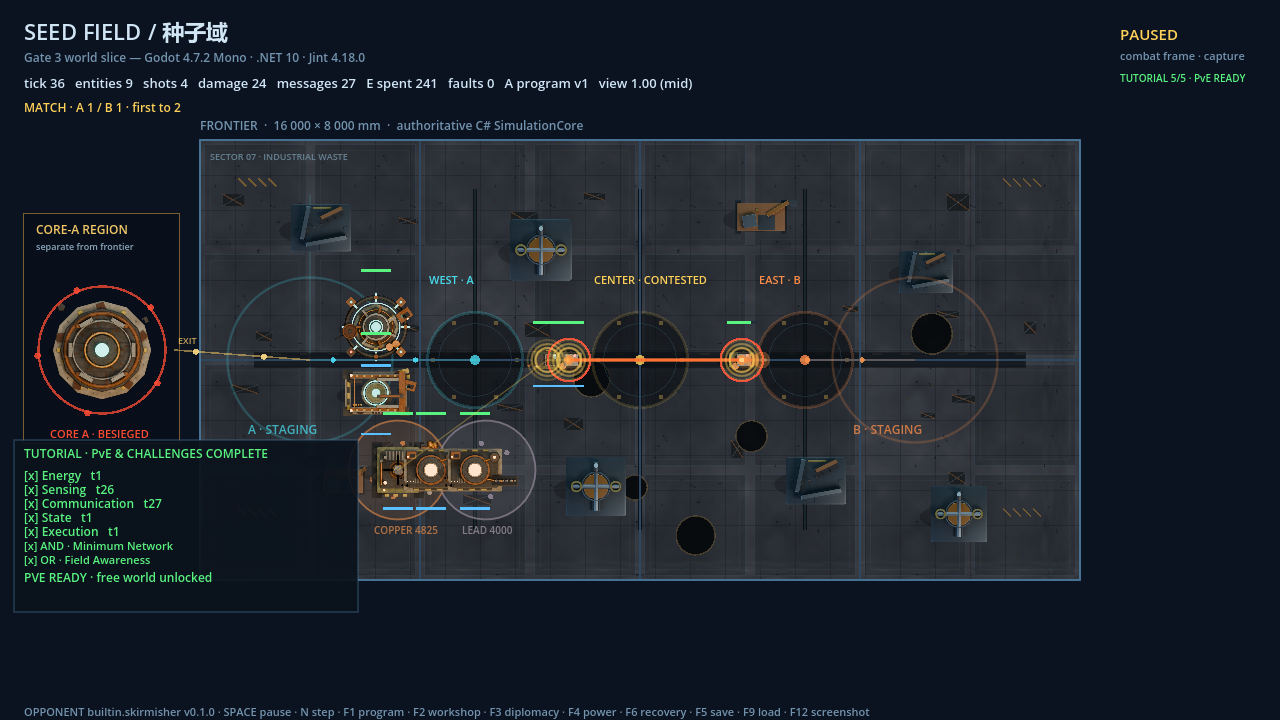
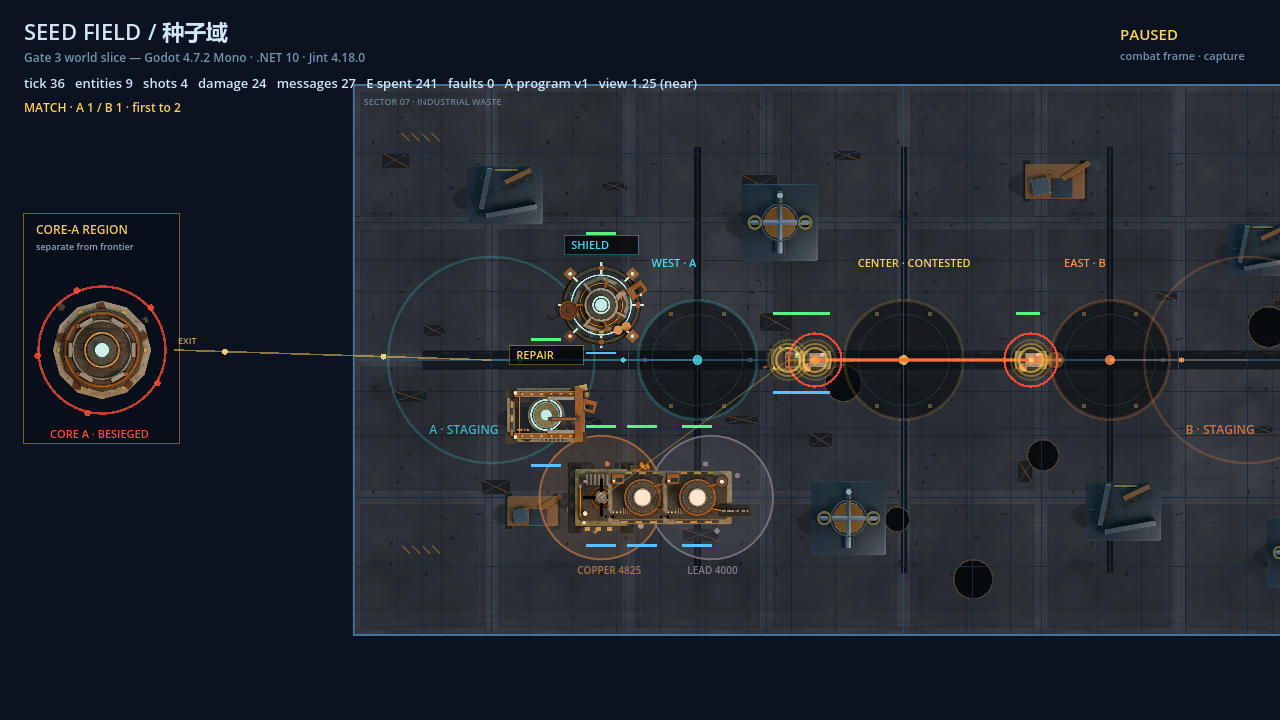
feat(game): SeedField 打磨 Main topdown 截图构图
Frame the capture at 1.25 zoom around the A support area, hide tutorial/control overlays, label the repair bay and shield generator, and separate the support buildings from the ore labels. Split capture option parsing into Main.CaptureUi.cs to keep Main.cs under the line limit.

Tests: dotnet test SeedField.slnx -> 526 passed.

diff --git a/game/SeedField.Game/Scripts/Main.CaptureUi.cs b/game/SeedField.Game/Scripts/Main.CaptureUi.cs
@@ -1,0 +1,82 @@
+using Godot;
+using SeedField.Simulation;
+
+namespace SeedField.Game;
+
+public partial class Main
+{
+    private bool _captureMainTopdown;
+
+    private void ParseCaptureOptions(string[] arguments)
+    {
+        _captureEditor = arguments.Contains("--capture-editor");
+        _captureWorkshop = arguments.Contains("--capture-workshop");
+        _captureDiplomacy = arguments.Contains("--capture-diplomacy");
+        _captureDiplomacyAi = arguments.Contains("--capture-diplomacy-ai");
+        _capturePower = arguments.Contains("--capture-power");
+        _captureRecovery = arguments.Contains("--capture-recovery");
+        _captureVictory = arguments.Contains("--capture-victory");
+        _captureVisual = arguments.Contains("--capture-visual");
+        _captureTactical = arguments.Contains("--capture-tactical");
+        _captureDebug = arguments.Contains("--capture-debug");
+        _captureOmniscient = arguments.Contains("--capture-omniscient");
+        _captureView = arguments.Contains("--capture-view");
+        _captureMainTopdown = arguments.Contains("--capture-main-topdown");
+        _tacticalVisible = _captureTactical;
+        _debugVisible = _captureDebug || _captureOmniscient;
+        _omniscientDebug |= _captureOmniscient;
+        _paused = _benchmarkMain || arguments.Contains("--capture") ||
+                  _captureEditor ||
+                  _captureWorkshop ||
+                  _captureDiplomacy ||
+                  _captureDiplomacyAi ||
+                  _capturePower ||
+                  _captureRecovery ||
+                  _captureVictory ||
+                  _captureVisual ||
+                  _captureTactical ||
+                  _captureDebug ||
+                  _captureOmniscient ||
+                  _captureView ||
+                  _captureMainTopdown;
+        _captureRequested = _paused;
+        _capturePath = _captureMainTopdown
+            ? "res://screenshots/main-topdown.png"
+            : _captureEditor
+                ? "res://screenshots/m0-program-editor.png"
+                : _captureWorkshop
+                    ? "res://screenshots/m0-workshop.png"
+                    : _captureDiplomacyAi
+                        ? "res://screenshots/m0-diplomacy-ai.png"
+                        : _captureDiplomacy
+                            ? "res://screenshots/m0-diplomacy.png"
+                            : _capturePower
+                                ? "res://screenshots/m0-power.png"
+                                : _captureRecovery
+                                    ? "res://screenshots/m0-recovery.png"
+                                    : _captureVictory
+                                        ? "res://screenshots/m0-victory.png"
+                                        : _captureVisual
+                                            ? "res://screenshots/art-main-combat.png"
+                                            : _captureTactical
+                                                ? "res://screenshots/art-main-tactical.png"
+                                                : _captureDebug
+                                                    ? "res://screenshots/art-main-debug.png"
+                                                    : _captureOmniscient
+                                                        ? "res://screenshots/art-main-omniscient.png"
+                                                        : _captureView
+                                                            ? _zoom < 0.9f
+                                                                ? "res://screenshots/art-main-far.png"
+                                                                : _zoom > 1.1f
+                                                                    ? "res://screenshots/art-main-near.png"
+                                                                    : "res://screenshots/art-main-mid.png"
+                                                            : "res://screenshots/m0-combat.png";
+        if (_captureMainTopdown)
+        {
+            _zoom = 1.25f;
+            var focus = new Vec2(3_000, 4_000);
+            _pan = new Vector2(560, 360) -
+                (BaseMapOrigin + new Vector2(focus.X * MapScale, focus.Y * MapScale));
+        }
+    }
+}

diff --git a/game/SeedField.Game/Scripts/Main.cs b/game/SeedField.Game/Scripts/Main.cs
@@ -86,7 +86,6 @@ public partial class Main : Node2D
     private bool _captureDebug;
     private bool _captureOmniscient;
     private bool _captureView;
-    private bool _captureMainTopdown;
     private int _frame;
     private int _faultCount;
     private string _status = "booting";
@@ -223,68 +222,8 @@ public partial class Main : Node2D
             return;
         }
 
-        _captureEditor = arguments.Contains("--capture-editor");
-        _captureWorkshop = arguments.Contains("--capture-workshop");
-        _captureDiplomacy = arguments.Contains("--capture-diplomacy");
-        _captureDiplomacyAi = arguments.Contains("--capture-diplomacy-ai");
-        _capturePower = arguments.Contains("--capture-power");
-        _captureRecovery = arguments.Contains("--capture-recovery");
-        _captureVictory = arguments.Contains("--capture-victory");
-        _captureVisual = arguments.Contains("--capture-visual");
-        _captureTactical = arguments.Contains("--capture-tactical");
-        _captureDebug = arguments.Contains("--capture-debug");
-        _captureOmniscient = arguments.Contains("--capture-omniscient");
-        _captureView = arguments.Contains("--capture-view");
-        _captureMainTopdown = arguments.Contains("--capture-main-topdown");
-        _tacticalVisible = _captureTactical;
-        _debugVisible = _captureDebug || _captureOmniscient;
-        _omniscientDebug |= _captureOmniscient;
-        _paused = _benchmarkMain || arguments.Contains("--capture") ||
-                  _captureEditor ||
-                  _captureWorkshop ||
-                  _captureDiplomacy ||
-                  _captureDiplomacyAi ||
-                  _capturePower ||
-                  _captureRecovery ||
-                  _captureVictory ||
-                  _captureVisual ||
-                  _captureTactical ||
-                  _captureDebug ||
-                  _captureOmniscient ||
-                  _captureView ||
-                  _captureMainTopdown;
-        _captureRequested = _paused;
-        _capturePath = _captureMainTopdown
-            ? "res://screenshots/main-topdown.png"
-            : _captureEditor
-            ? "res://screenshots/m0-program-editor.png"
-            : _captureWorkshop
-                ? "res://screenshots/m0-workshop.png"
-                : _captureDiplomacyAi
-                    ? "res://screenshots/m0-diplomacy-ai.png"
-                    : _captureDiplomacy
-                        ? "res://screenshots/m0-diplomacy.png"
-                        : _capturePower
-                            ? "res://screenshots/m0-power.png"
-                            : _captureRecovery
-                                ? "res://screenshots/m0-recovery.png"
-                                : _captureVictory
-                                    ? "res://screenshots/m0-victory.png"
-                                    : _captureVisual
-                                        ? "res://screenshots/art-main-combat.png"
-                                        : _captureTactical
-                                            ? "res://screenshots/art-main-tactical.png"
-                                            : _captureDebug
-                                                ? "res://screenshots/art-main-debug.png"
-                                                : _captureOmniscient
-                                                    ? "res://screenshots/art-main-omniscient.png"
-                                                    : _captureView
-                                                        ? _zoom < 0.9f
-                                                            ? "res://screenshots/art-main-far.png"
-                                                            : _zoom > 1.1f
-                                                                ? "res://screenshots/art-main-near.png"
-                                                                : "res://screenshots/art-main-mid.png"
-                                                        : "res://screenshots/m0-combat.png";
+        ParseCaptureOptions(arguments);
+
         UpdateFacing();
 
         if (_captureEditor)

diff --git a/game/SeedField.Game/Scripts/Main.WorldVisuals.cs b/game/SeedField.Game/Scripts/Main.WorldVisuals.cs
@@ -137,6 +137,42 @@ public partial class Main
         }
     }
 
+    private void DrawCaptureSupportLabels()
+    {
+        foreach (var entity in _visibleEntities)
+        {
+            var label = entity.BlueprintId switch
+            {
+                "repair_bay" => "REPAIR",
+                "shield_generator" => "SHIELD",
+                _ => null,
+            };
+            if (label is null)
+            {
+                continue;
+            }
+
+            var position = Map(entity.Position) + new Vector2(-30, -56);
+            var color = entity.BlueprintId == "repair_bay" ? Amber : Cyan;
+            DrawRect(
+                new Rect2(position - new Vector2(7, 13), new Vector2(74, 19)),
+                new Color(0.02f, 0.03f, 0.05f, 0.82f));
+            DrawRect(
+                new Rect2(position - new Vector2(7, 13), new Vector2(74, 19)),
+                new Color(color, 0.35f),
+                false,
+                1f);
+            DrawString(
+                ThemeDB.FallbackFont,
+                position,
+                label,
+                HorizontalAlignment.Left,
+                -1,
+                11,
+                color);
+        }
+    }
+
     private void DrawPresentationCore()
     {
         var snapshot = CoreRecoveryDiagnosticsBuilder.Build(_world, "A");

diff --git a/game/SeedField.Game/Scripts/Main.Draw.cs b/game/SeedField.Game/Scripts/Main.Draw.cs
@@ -39,6 +39,11 @@ public partial class Main : Node2D
         {
             DrawPresentationCore();
             DrawPresentationEntities();
+            if (_captureMainTopdown)
+            {
+                DrawCaptureSupportLabels();
+            }
+
             DrawTracers();
             DrawMessages();
             DrawPresentationEffects();
@@ -389,8 +394,12 @@ public partial class Main : Node2D
                 match.IsFinished ? Green : Amber);
         }
 
-        DrawTutorialSummary();
-        DrawTutorialPanel();
+        if (!_captureMainTopdown)
+        {
+            DrawTutorialSummary();
+            DrawTutorialPanel();
+            DrawControls();
+        }
 
         if (_tacticalVisible || _debugVisible)
         {
@@ -401,8 +410,6 @@ public partial class Main : Node2D
         {
             DrawEventLog();
         }
-
-        DrawControls();
     }
 
     private void DrawLegend()

diff --git a/game/SeedField.Game/Scripts/Scenarios.cs b/game/SeedField.Game/Scripts/Scenarios.cs
@@ -281,8 +281,8 @@ internal static class Scenarios
         DeploymentService.Deploy(world, oreDrill, "A", "frontier", new Vec2(3_600, 6_000));
         DeploymentService.Deploy(world, smelter, "A", "frontier", new Vec2(4_200, 6_000));
         DeploymentService.Deploy(world, leadSmelter, "A", "frontier", new Vec2(5_000, 6_000));
-        DeploymentService.Deploy(world, repairBay, "A", "frontier", new Vec2(3_200, 4_600));
-        DeploymentService.Deploy(world, shieldGenerator, "A", "frontier", new Vec2(3_200, 3_400));
+        DeploymentService.Deploy(world, repairBay, "A", "frontier", new Vec2(2_800, 4_800));
+        DeploymentService.Deploy(world, shieldGenerator, "A", "frontier", new Vec2(3_600, 3_200));
         DeploymentService.Deploy(world, strike, "A", "frontier", new Vec2(4_000, 4_000));
         if (!peaceful)
         {

diff --git a/docs/engineering/evidence/2026-11-19-main-topdown-migration.md b/docs/engineering/evidence/2026-11-19-main-topdown-migration.md
@@ -10,7 +10,12 @@
 godot --path game/SeedField.Game res://Scenes/Main.tscn -- --capture-main-topdown
 ```
 
-新增 `--capture-main-topdown` 只用于截图，不改变正常启动流程。
+新增 `--capture-main-topdown` 只用于截图，不改变正常启动流程。截图模式额外做：
+
+- 相机 `zoom 1.25`，聚焦 `(3000,4000)`，让 A 支援区与 B staging 同屏；
+- 隐藏教程面板与底部控制条，保留顶部 HUD、比赛信息与左侧核心区面板；
+- 给 Repair Bay / Shield Generator 画 `REPAIR` / `SHIELD` 标签；
+- 支援建筑位置调整为 `(2800,4800)` 与 `(3600,3200)`，避免压在矿脉标签上。
 
 ## 改动
 
